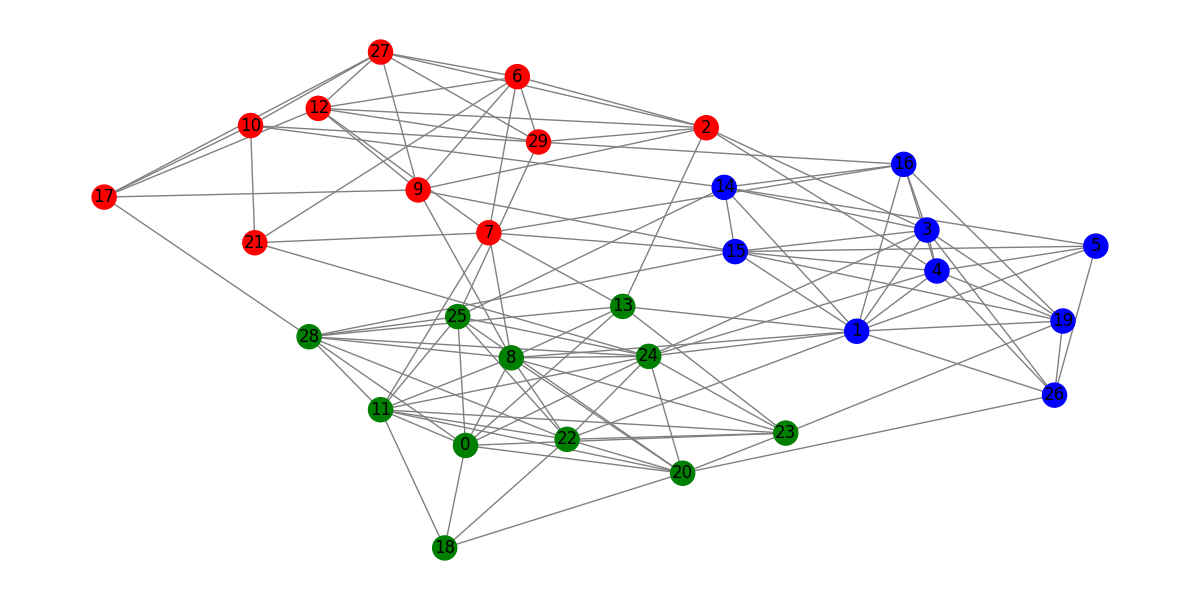
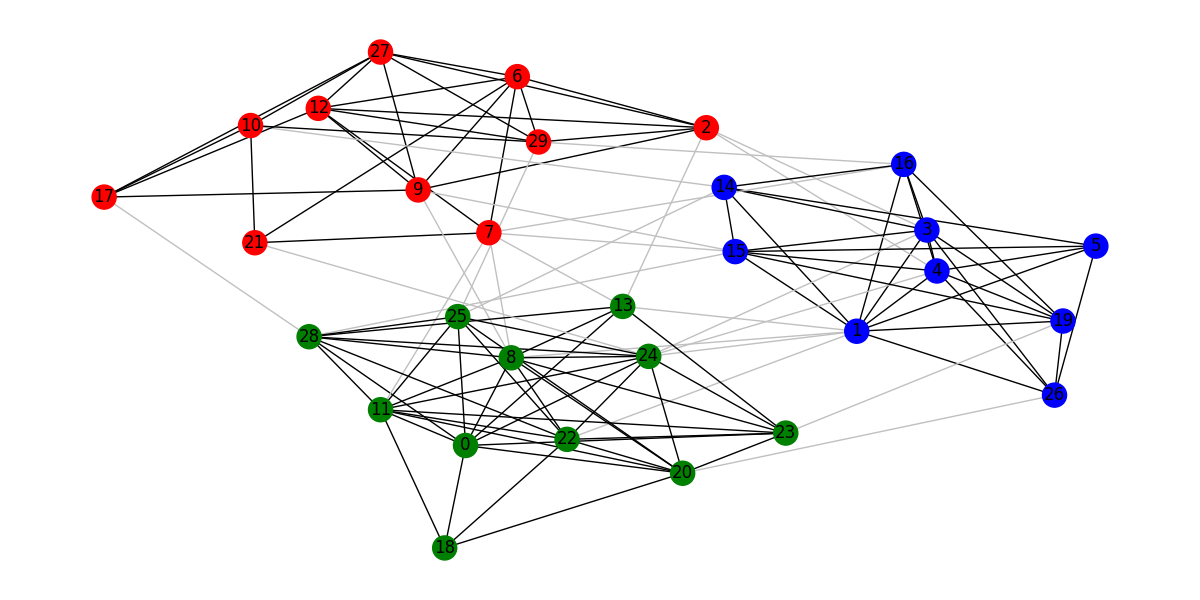
Add visualization for web graph

diff --git a/HW2/web_visualizer.py b/HW2/web_visualizer.py
@@ -1,0 +1,34 @@
+import networkx as nx
+import matplotlib.pyplot as plt
+import numpy as np
+import pandas as pd
+
+df = pd.read_csv("HW2/network.csv")
+
+df100 = df[(df["source"] <= 100) & (df["target"] <= 100)]
+df300 = df[(df["source"] <= 300) & (df["target"] <= 300)]
+
+G100: nx.Graph = nx.from_pandas_edgelist(df100, 'source', 'target', create_using=nx.DiGraph)
+G300: nx.Graph = nx.from_pandas_edgelist(df300, 'source', 'target', create_using=nx.DiGraph)
+
+node_degrees = dict(G100.degree())
+node_colors = [node_degrees[node] for node in G100.nodes()]
+cmap = plt.colormaps.get_cmap("cool")
+norm = plt.Normalize(min(node_colors), max(node_colors))
+sm = plt.cm.ScalarMappable(cmap=cmap, norm=norm)
+sm.set_array([])
+
+plt.figure(figsize=(18, 8))
+nx.draw(G100, pos=nx.circular_layout(G100), with_labels=True, width=0.3, node_color=node_colors, cmap=cmap)
+plt.savefig("HW2/imgs/web100_circle.png")
+
+
+node_degrees = dict(G300.degree())
+node_colors = [node_degrees[node] for node in G300.nodes()]
+cmap = plt.colormaps.get_cmap("cool")
+norm = plt.Normalize(min(node_colors), max(node_colors))
+sm = plt.cm.ScalarMappable(cmap=cmap, norm=norm)
+sm.set_array([])
+plt.clf()
+nx.draw(G300, pos=nx.layout.kamada_kawai_layout(G300), width=0.3, node_color=node_colors, cmap=cmap)
+plt.savefig("HW2/imgs/web300_kk.png")

diff --git a/HW2/ssbm.py b/HW2/ssbm.py
@@ -9,7 +9,6 @@ A = 0.7
 B = 0.1
 
 seed = 3
-
 random.seed(seed)
 np.random.seed(seed)
 
@@ -38,6 +37,9 @@ plt.savefig("HW2/imgs/ssbm_spring.png")
 # Figure 2: Kamada-Kawai Layout
 plt.figure(figsize=(12, 6))
 pos = nx.kamada_kawai_layout(G)
-nx.draw(G, pos=pos, node_color=color_map, with_labels=True, edge_color="grey")
+edge_map = [
+    "black" if communities[u] == communities[v] else "silver" for u,v in G.edges]    
+nx.draw(
+    G, pos=pos, node_color=color_map, with_labels=True, edge_color=edge_map)
 plt.title('Kamada-Kawai Layout')
 plt.savefig("HW2/imgs/ssbm_kk.png")
